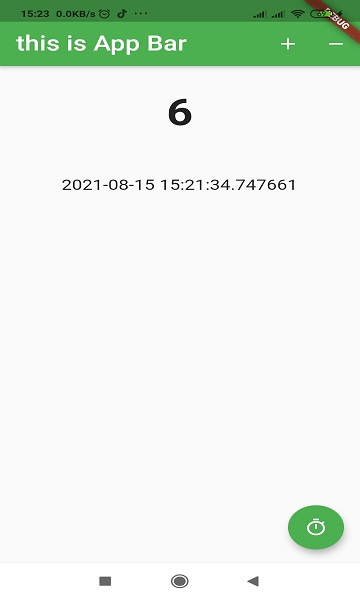
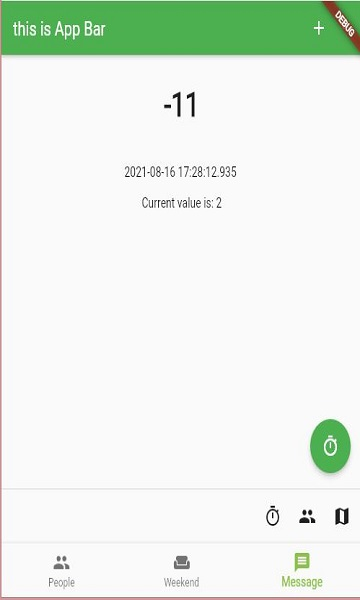
add a Bottom Navigation Bar

diff --git a/Scaffolds/appbar/lib/main.dart b/Scaffolds/appbar/lib/main.dart
@@ -16,11 +16,22 @@ class _State extends State<MyApp>{
   int _value = 0;
   String floatinValue = '';
   String _persistenceValue = '';
+  late List<BottomNavigationBarItem> _items;
+  String _valueBNavigation = '';
+  int _index = 0;
 
   void _onClick(String value) => setState(() => _persistenceValue = value);
   void _add()=> setState(()=> _value ++);
   void _remove()=> setState(()=> _value--);
   void _onClickd()=> setState(()=> floatinValue = new DateTime.now().toString());
+
+  @override
+  void initState() {
+    _items = [];
+    _items.add(new BottomNavigationBarItem(icon: new Icon(Icons.people), title: new Text('People')));
+    _items.add(new BottomNavigationBarItem(icon: new Icon(Icons.weekend), title: new Text('Weekend')));
+    _items.add(new BottomNavigationBarItem(icon: new Icon(Icons.message), title: new Text('Message')));
+  }
 
   @override
   Widget build(BuildContext context){
@@ -50,10 +61,23 @@ class _State extends State<MyApp>{
           child: new Column(
             children: <Widget>[
               new Text("${_value}\n".toString(),style: new TextStyle(fontWeight: FontWeight.bold,fontSize: 35.0)),
-              new Text(floatinValue)
+              new Text("${floatinValue} \n"),
+              new Text(_valueBNavigation)
             ],
           ),
         ),
+      ),
+      bottomNavigationBar: new BottomNavigationBar(
+        items: _items,
+        fixedColor: Colors.lightGreen,
+        currentIndex: _index,
+        onTap: (int item) {
+          setState((){
+            _index = item;
+            _valueBNavigation = "Current value is: ${_index.toString()}";
+          });
+        },
+
       ),
     );
   }
